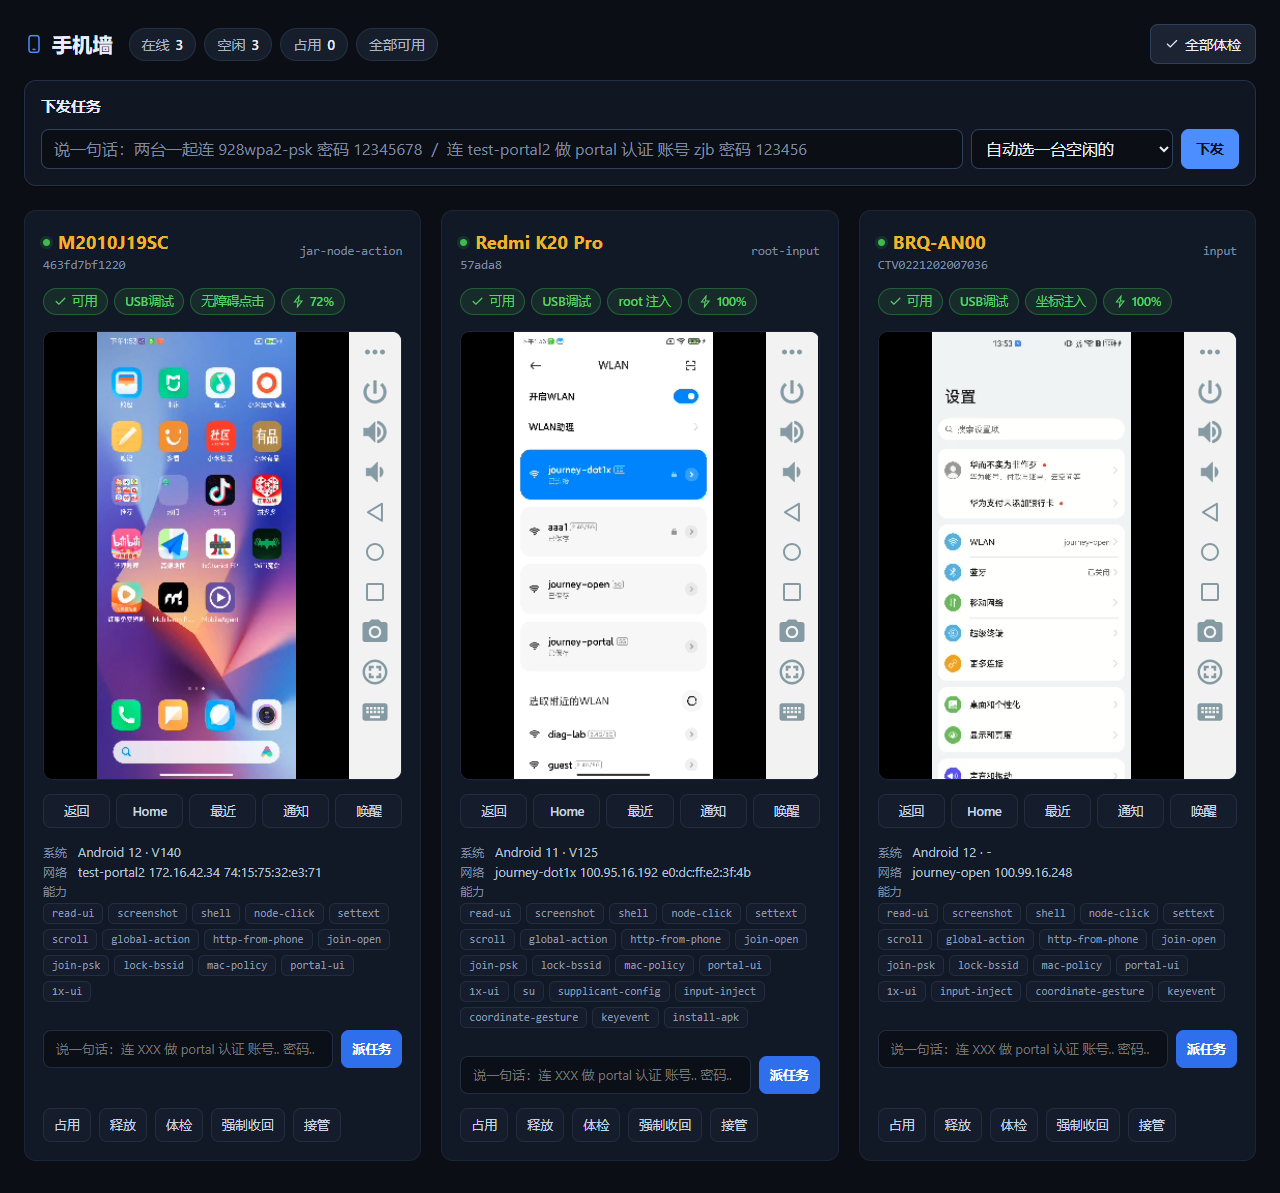
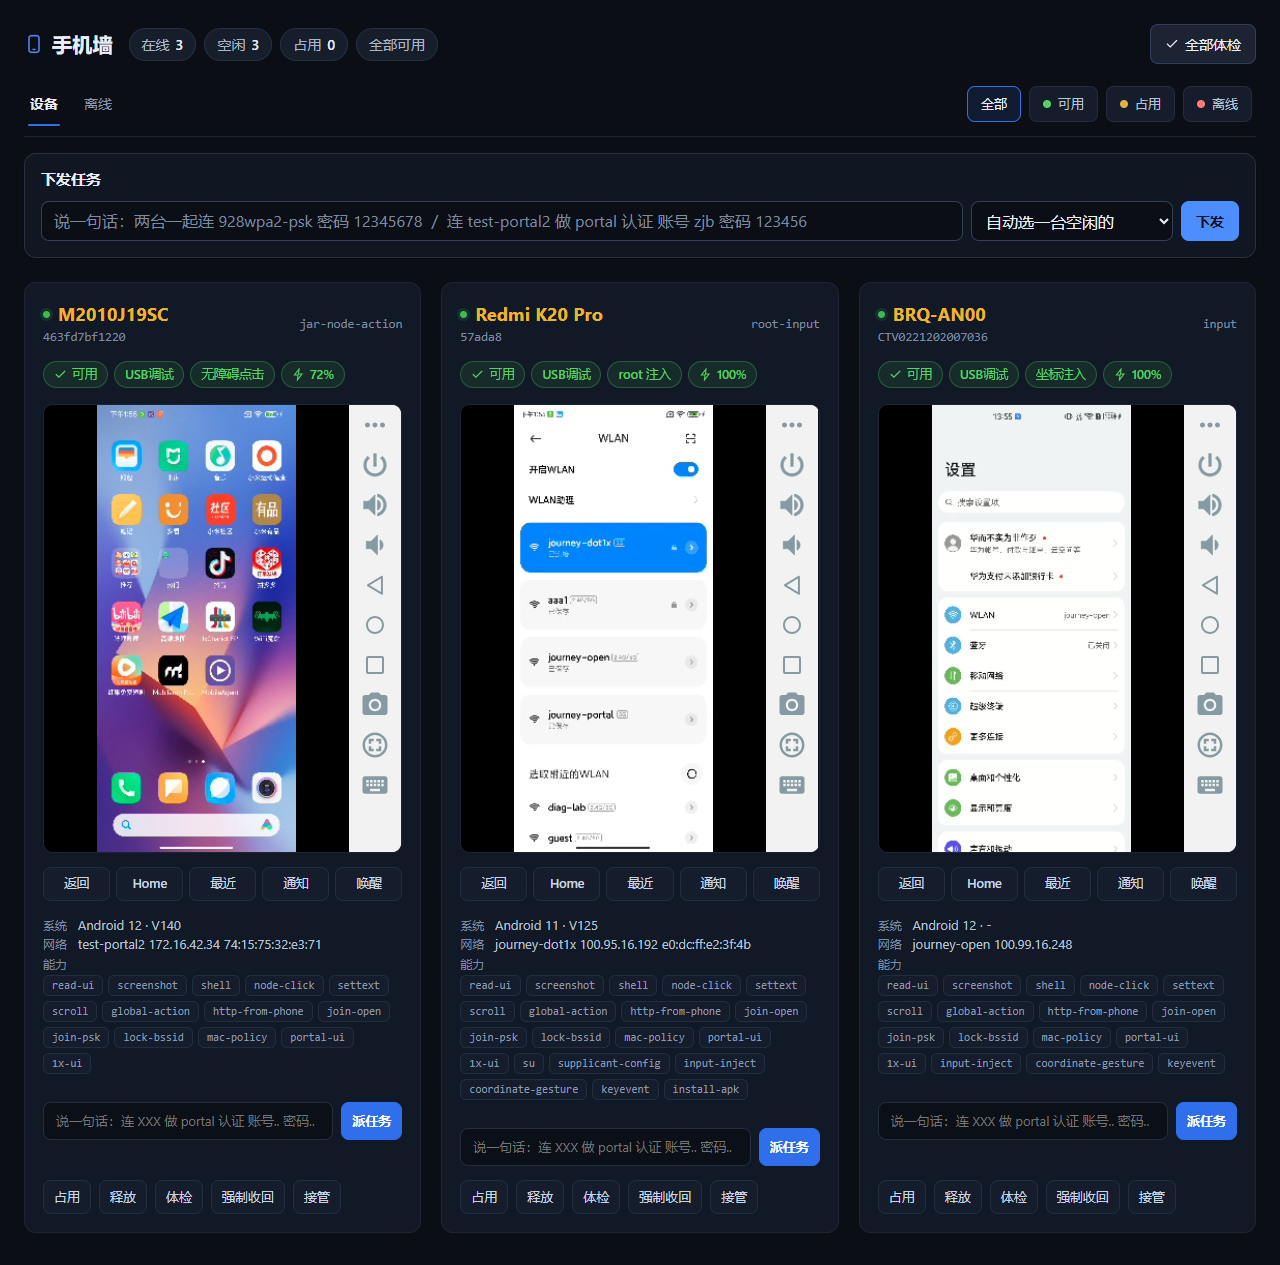
feat(wall): 顶栏导航(设备/离线) + 状态筛选条 + 单击画面进大屏(复用原画面与按键条)

diff --git a/src/wall/wall-page.html b/src/wall/wall-page.html
@@ -544,5 +544,114 @@ refresh();setInterval(refresh,8000);
 .card-head{order:-3}
 .badges{order:-2;margin-bottom:2px}
 #agedList .chk{background:#151c2b;border:1px solid #232d40;border-radius:10px;padding:12px 14px}
-</style></body>
+</style><style id="v5">
+.topnav{display:flex;align-items:center;gap:18px;padding:6px 4px 14px;border-bottom:1px solid #1c2537;margin-bottom:16px}
+.navtabs{display:flex;gap:22px}
+.navtab{position:relative;background:none;border:0;color:#8b98ad;font-size:14px;padding:6px 2px;cursor:pointer;font-weight:500}
+.navtab.on{color:#e6edf7;font-weight:600}
+.navtab.on:after{content:'';position:absolute;left:0;right:0;bottom:-6px;height:2px;background:#2f6feb;border-radius:2px}
+.filters{display:flex;align-items:center;gap:8px;margin-left:auto}
+.fchip{display:inline-flex;align-items:center;gap:7px;padding:7px 13px;border-radius:8px;border:1px solid #232d40;background:#151c2b;color:#b7c2d4;font-size:13px;cursor:pointer}
+.fchip:hover{background:#1b2436}
+.fchip.on{border-color:#2f6feb;color:#e6edf7;background:rgba(47,111,235,.14)}
+.fdot{width:8px;height:8px;border-radius:50%}
+.screen-wrap{cursor:zoom-in}
+#bigview{position:fixed;inset:0;z-index:200;background:#05080d;display:none;flex-direction:column;padding:18px}
+#bigview.on{display:flex}
+.bv-head{display:flex;align-items:center;gap:12px;margin-bottom:12px;color:#e6edf7}
+.bv-title{font-size:17px;font-weight:650;color:#f0b429}
+.bv-sub{color:#7d8aa0;font-size:13px;font-family:ui-monospace,Menlo,Consolas,monospace}
+.bv-body{flex:1;display:flex;gap:16px;min-height:0}
+.bv-screen{flex:1;display:flex;flex-direction:column;gap:10px;background:#0b0f17;border:1px solid #1c2537;border-radius:12px;padding:12px;min-height:0}
+.bv-screen .screenframe,.bv-screen .screen{width:100%!important;height:100%!important;max-height:100%;object-fit:contain;border:0;border-radius:8px;min-height:0}
+.bv-screen .keybar{margin-top:0}
+.bv-side{width:300px;display:flex;flex-direction:column;gap:12px;color:#b7c2d4;font-size:13px}
+.bv-close{margin-left:auto;padding:8px 14px;border-radius:8px;border:1px solid #232d40;background:#151c2b;color:#c9d4e4;cursor:pointer}
+.bv-close:hover{background:#1b2436}
+</style>
+<script id="v5js">
+(function(){
+  var cmd = document.querySelector('.command');
+  var grid = document.getElementById('grid');
+  if(!cmd || !grid) return;
+
+  /* 1) 顶栏：导航 + 状态筛选 */
+  var bar = document.createElement('div'); bar.className = 'topnav';
+  bar.innerHTML = '<div class="navtabs">'
+    + '<button class="navtab on" data-tab="dev">设备</button>'
+    + '<button class="navtab" data-tab="off">离线</button></div>'
+    + '<div class="filters">'
+    + '<button class="fchip on" data-f="all">全部</button>'
+    + '<button class="fchip" data-f="usable"><span class="fdot" style="background:#56d364"></span>可用</button>'
+    + '<button class="fchip" data-f="busy"><span class="fdot" style="background:#e3b341"></span>占用</button>'
+    + '<button class="fchip" data-f="off"><span class="fdot" style="background:#ff7b72"></span>离线</button>'
+    + '</div>';
+  cmd.parentNode.insertBefore(bar, cmd);
+  var aged = document.getElementById('agedWrap');
+
+  var filter = 'all';
+  function applyFilter(){
+    var cards = grid.querySelectorAll('.card');
+    for (var i=0;i<cards.length;i++){
+      var c = cards[i], show = true;
+      if (filter==='usable') show = !c.classList.contains('is-unusable') && !c.classList.contains('is-busy');
+      else if (filter==='busy') show = c.classList.contains('is-busy');
+      else if (filter==='off') show = false;
+      c.style.display = show ? '' : 'none';
+    }
+  }
+  function setTab(tab){
+    bar.querySelectorAll('.navtab').forEach(function(b){ b.classList.toggle('on', b.dataset.tab===tab); });
+    var off = tab==='off';
+    cmd.style.display = off ? 'none' : '';
+    grid.style.display = off ? 'none' : '';
+    var empty = document.getElementById('empty'); if (empty && off) empty.style.display='none';
+    if (aged) aged.style.display = off ? 'block' : (aged.children.length ? aged.style.display : 'none');
+    if (off && filter!=='all') { filter='off'; }
+    applyFilter();
+  }
+  bar.addEventListener('click', function(e){
+    var b = e.target.closest('[data-tab]'); if (b) { setTab(b.dataset.tab); return; }
+    var c = e.target.closest('[data-f]'); if (!c) return;
+    filter = c.dataset.f;
+    bar.querySelectorAll('.fchip').forEach(function(x){ x.classList.toggle('on', x.dataset.f===filter); });
+    if (filter==='off') setTab('off'); else setTab('dev');
+  });
+  setInterval(applyFilter, 800);
+
+  /* 2) 单击画面 → 大屏（把原画面与按键条原地搬过去，关掉再搬回） */
+  var bv = document.createElement('div'); bv.id='bigview';
+  bv.innerHTML = '<div class="bv-head"><span class="bv-title"></span><span class="bv-sub"></span>'
+    + '<button class="bv-close">关闭</button></div>'
+    + '<div class="bv-body"><div class="bv-screen"></div><div class="bv-side"></div></div>';
+  document.body.appendChild(bv);
+  var bvScreen = bv.querySelector('.bv-screen'), bvSide = bv.querySelector('.bv-side');
+  var holder = null;
+  function openBig(card){
+    var wrap = card.querySelector('.screen-wrap'); if (!wrap) return;
+    holder = { card: card, wrap: wrap, parent: wrap.parentNode, next: wrap.nextSibling };
+    bv.querySelector('.bv-title').textContent = (card.querySelector('.card-title')||{}).textContent || '';
+    bv.querySelector('.bv-sub').textContent = (card.querySelector('.card-sub')||{}).textContent || '';
+    bvScreen.appendChild(wrap);
+    var kb = card.querySelector('.keybar'); if (kb) bvScreen.appendChild(kb);
+    var meta = card.querySelector('.meta'); if (meta) bvSide.appendChild(meta);
+    bvSide.appendChild(card.querySelector('.badges') || document.createElement('span'));
+    bv.classList.add('on');
+  }
+  function closeBig(){
+    if (!holder) { bv.classList.remove('on'); return; }
+    holder.card.insertBefore(holder.wrap, holder.next);
+    var kb = bvScreen.querySelector('.keybar'), meta = bvSide.querySelector('.meta');
+    if (kb) holder.card.insertBefore(kb, holder.card.querySelector('.meta'));
+    if (meta) holder.card.insertBefore(meta, holder.card.querySelector('.caps'));
+    bv.classList.remove('on'); holder = null;
+  }
+  bv.querySelector('.bv-close').addEventListener('click', closeBig);
+  document.addEventListener('keydown', function(e){ if (e.key==='Escape') closeBig(); });
+  grid.addEventListener('click', function(e){
+    var w = e.target.closest('.screen-wrap'); if (!w) return;
+    var card = w.closest('.card'); if (card) openBig(card);
+  });
+})();
+</script></body>
 </html>
